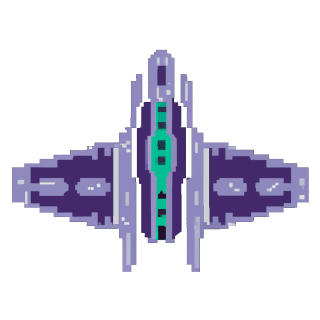
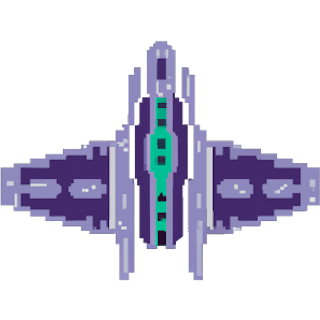
added_some_more_enemy_ships

Changed region(s): [[0.0, 0.125, 1.0, 0.875]]

diff --git a/enemy.py b/enemy.py
@@ -6,7 +6,7 @@ class Enemy(pg.sprite.Sprite):
         super().__init__()
         ship_img = pg.transform.scale(
                 pg.image.load(
-                    "pixelart/enemy_ship_1.png"), (WIDTH//10, WIDTH//10))
+                    "pixelart/enemy_ship_" + str(randint(1,4)) + ".png"), (WIDTH//10, WIDTH//10))
         self.orig = ship_img
         self.image = self.orig
         self.disp_rect = disp.get_rect()
@@ -111,7 +111,7 @@ class Laser(pg.sprite.Sprite):
 
         # move attr
         self.angle = angle
-        self.speed = WIDTH//40
+        self.speed = WIDTH//80
 
     def update(self):
         if self.rect.y < 0 or self.rect.y > HEIGHT:

diff --git a/game_loop.py b/game_loop.py
@@ -269,7 +269,7 @@ class Game:
                 self.sprites.add(self.enemy)
 
             enemy_laser = self.enemy.shoot_at_player_and_move(self.player.rect.center)
-            print(self.player.rect.center)
+            #print(self.player.rect.center)
             if enemy_laser is not None:
                 self.enemy_lasers.add(enemy_laser)
                 self.sprites.add(enemy_laser)